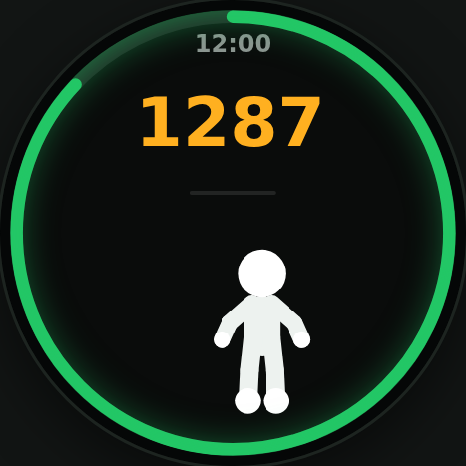
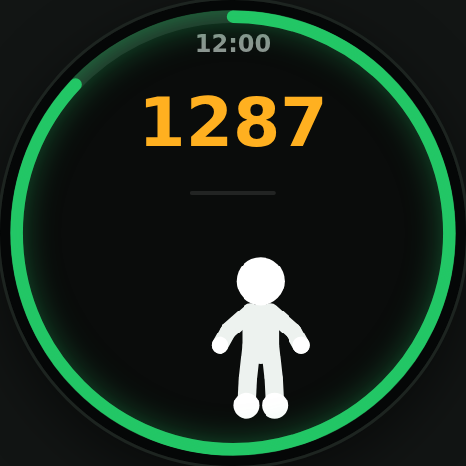
Random-stripe heat rays, star relocation, proto state browser
- Ray glow rebuilt: stripe widths (4-9deg) and gaps (8-20deg) are
  randomized once at boot and interleaved into two groups (A/B) applied
  as conic-gradient masks, giving a hand-drawn comic look instead of
  mechanical even spokes. Heat 1 does not rotate - the two groups
  alternately light up (slow ~2.4s swap, warm orange). Heat 2 swaps
  faster (~0.64s) in cream/light-gold and adds whole-wheel rotation
  (~6.5s/turn). Hard-switch alternation reads crisply at 10-15fps.
- Honor stars move out of the count row to sit right of the charge
  meter; the big count now stays fixed dead-center regardless of stars.
- Prototype control bar gains a state quick-browse section: one-tap
  jumps to home / mode select / in-session normal / heat 1 / heat 2 /
  full-meter+stars / result / congrats. In-session presets freeze the
  combo watchdog until a real jump occurs (proto-only concept).
- PRD FR-4.7/4.15 + new decision row, handbook, UI README synced;
  screenshots regenerated.

Claude-Session: https://claude.ai/code/session_01MZXpzSkZDw4hTcUnQ2UQRA

Changed region(s): [[0.4506, 0.5107, 0.691, 0.9013], [0.3004, 0.2103, 0.691, 0.3305], [0.3004, 0.3004, 0.3305, 0.3305]]

diff --git a/docs-and-demo/demo.html b/docs-and-demo/demo.html
@@ -463,8 +463,9 @@
   .a-count.pow { animation: cpow .4s linear; }
   .a-count.over { color: #FFB020; }   /* 达标后计数转暖色，与火焰呼应 */
   .a-lapstars {
-    color: #FFC24D; font-size: var(--t28); font-weight: 700;   /* 荣誉星统一金黄(会后修订) */
-    letter-spacing: .05em; margin-top: .4em;
+    position: absolute; top: 39.8%; left: calc(50% + 3.1em); z-index: 3;
+    color: #FFC24D; font-size: var(--t22); font-weight: 700;   /* 荣誉星金黄,移至蓄力槽右侧(8-26) */
+    letter-spacing: .05em; line-height: 1;
     font-variant-numeric: tabular-nums;
   }
   /* 连击标签(8-25 试验):计数下方,≥10 显示;颜色随连击档位升温,断连即隐 */
@@ -551,55 +552,29 @@
     mask: radial-gradient(circle, transparent 0 54px, rgba(0,0,0,.4) 130px, #000 218px);
   }
   .rays.on { opacity: 1; }
-  /* 5 档递进(会后修订:每档变化温和;最高两档不再加密——靠颜色与转速表达,避免太碎) */
-  .rays.f1 {   /* 档1·暖橙(满 50 点亮):15 条 · 18s */
-    background: repeating-conic-gradient(from 0deg,
-      rgba(255,166,44,.14) 0deg 8deg, transparent 8deg 24deg);
-    animation: rayspin 18s linear infinite;
-  }
-  .rays.f2 {   /* 档2·橙金(完成 1 个目标):18 条 · 14s */
-    background: repeating-conic-gradient(from 0deg,
-      rgba(255,186,50,.19) 0deg 7deg, transparent 7deg 20deg);
-    animation: rayspin 14s linear infinite;
-  }
-  .rays.f3 {   /* 档3·金(完成 2 个):20 条 · 11s */
-    background: repeating-conic-gradient(from 0deg,
-      rgba(255,204,54,.25) 0deg 6.5deg,
-      rgba(255,236,160,.10) 6.5deg 9deg,
-      transparent 9deg 18deg);
-    animation: rayspin 11s linear infinite;
-  }
-  .rays.f4 {   /* 档4·亮金(完成 3 个):24 条 · 8s */
-    background: repeating-conic-gradient(from 0deg,
-      rgba(255,220,110,.31) 0deg 6deg,
-      rgba(255,240,180,.12) 6deg 8deg,
-      transparent 8deg 15deg);
-    animation: rayspin 8s linear infinite;
-  }
-  .rays.f5 {   /* 档5·白热(完成 ≥4 个,封顶):密度同档4,只更白更快 + 脉冲 + 暖晕 */
-    background:
-      radial-gradient(circle, transparent 0 120px, rgba(255,238,200,.12) 190px, transparent 300px),
-      repeating-conic-gradient(from 0deg,
-        rgba(255,246,220,.40) 0deg 6deg,
-        rgba(255,216,100,.16) 6deg 8deg,
-        transparent 8deg 15deg);
-    animation: rayspin 5.5s linear infinite, raypulse 1.1s ease-in-out infinite;
-  }
-  @keyframes rayspin  { to { transform: rotate(360deg); } }
-  @keyframes raypulse { 50% { opacity: .65; filter: brightness(1.4); } }
+  /* 8-26 二次修订:条纹宽窄与间隔带随机性——JS 开机生成一次,交错分成 A/B 两组(mask 条纹,底色上色);
+     热血1 = 不转动,两组条纹交替点亮(轻微缓慢);热血2 = 交替更快更亮更白 + 整体转动 */
+  .rays .rlay { position: absolute; inset: 0; opacity: 0; }
+  .rays.lv1 { filter: opacity(.55); }
+  .rays.lv1 .rlay { background: #FFA62C; }
+  .rays.lv1 .rlay.ra { animation: rayswap 2.4s linear infinite; }
+  .rays.lv1 .rlay.rb { animation: rayswap 2.4s linear infinite -1.2s; }
+  .rays.lv2 { filter: opacity(.9); animation: rayspin 6.5s linear infinite; }
+  .rays.lv2 .rlay.ra { background: #FFF3D0; animation: rayswap .64s linear infinite; }
+  .rays.lv2 .rlay.rb { background: #FFD264; animation: rayswap .64s linear infinite -.32s; }
+  /* 交替点亮:半程亮/半程压暗,硬切换(10–15fps 下同样干脆) */
+  @keyframes rayswap { 0%, 49.9% { opacity: .82; } 50%, 100% { opacity: .16; } }
+  @keyframes rayspin { to { transform: rotate(360deg); } }
   @media (prefers-reduced-motion: reduce) {
-    .rays.f1, .rays.f2, .rays.f3, .rays.f4, .rays.f5 { animation: none; }
+    .rays .rlay, .rays.lv2 { animation: none; }
+    .rays .rlay { opacity: .5; }
   }
 
   /* ===== 刷新率模拟（10 / 13 / 15 fps，steps = 时长 × fps）=====
      连续动画量化为逐帧；过渡动画直切（低刷新率下 tween 无意义） */
 
   #atomRoot.fps10, #atomRoot.fps10 * { transition: none !important; }
-  #atomRoot.fps10 .rays.f1 { animation: rayspin 18s steps(180) infinite; }
-  #atomRoot.fps10 .rays.f2 { animation: rayspin 14s steps(140) infinite; }
-  #atomRoot.fps10 .rays.f3 { animation: rayspin 11s steps(110) infinite; }
-  #atomRoot.fps10 .rays.f4 { animation: rayspin 8s steps(80) infinite; }
-  #atomRoot.fps10 .rays.f5 { animation: rayspin 5.5s steps(55) infinite, raypulse 1.06s steps(11) infinite; }
+  #atomRoot.fps10 .rays.lv2 { animation: rayspin 6.5s steps(65) infinite; }
   #atomRoot.fps10 .bono.idle .body-g  { animation-timing-function: steps(26); }
   #atomRoot.fps10 .bono.hop .body-g   { animation-timing-function: steps(4); }
   #atomRoot.fps10 .bono.party .body-g { animation-timing-function: steps(8); }
@@ -612,11 +587,7 @@
   #atomRoot.fps10 .aura.on            { animation-timing-function: steps(11); }
 
   #atomRoot.fps13, #atomRoot.fps13 * { transition: none !important; }
-  #atomRoot.fps13 .rays.f1 { animation: rayspin 18s steps(234) infinite; }
-  #atomRoot.fps13 .rays.f2 { animation: rayspin 14s steps(182) infinite; }
-  #atomRoot.fps13 .rays.f3 { animation: rayspin 11s steps(143) infinite; }
-  #atomRoot.fps13 .rays.f4 { animation: rayspin 8s steps(104) infinite; }
-  #atomRoot.fps13 .rays.f5 { animation: rayspin 5.5s steps(72) infinite, raypulse 1.06s steps(14) infinite; }
+  #atomRoot.fps13 .rays.lv2 { animation: rayspin 6.5s steps(85) infinite; }
   #atomRoot.fps13 .bono.idle .body-g  { animation-timing-function: steps(34); }
   #atomRoot.fps13 .bono.hop .body-g   { animation-timing-function: steps(5); }
   #atomRoot.fps13 .bono.party .body-g { animation-timing-function: steps(10); }
@@ -629,11 +600,7 @@
   #atomRoot.fps13 .aura.on            { animation-timing-function: steps(14); }
 
   #atomRoot.fps15, #atomRoot.fps15 * { transition: none !important; }
-  #atomRoot.fps15 .rays.f1 { animation: rayspin 18s steps(270) infinite; }
-  #atomRoot.fps15 .rays.f2 { animation: rayspin 14s steps(210) infinite; }
-  #atomRoot.fps15 .rays.f3 { animation: rayspin 11s steps(165) infinite; }
-  #atomRoot.fps15 .rays.f4 { animation: rayspin 8s steps(120) infinite; }
-  #atomRoot.fps15 .rays.f5 { animation: rayspin 5.5s steps(83) infinite, raypulse 1.06s steps(16) infinite; }
+  #atomRoot.fps15 .rays.lv2 { animation: rayspin 6.5s steps(98) infinite; }
   #atomRoot.fps15 .bono.idle .body-g  { animation-timing-function: steps(39); }
   #atomRoot.fps15 .bono.hop .body-g   { animation-timing-function: steps(6); }
   #atomRoot.fps15 .bono.party .body-g { animation-timing-function: steps(12); }
@@ -758,7 +725,7 @@
   <div id="atomWrap">
     <div id="atomRoot">
       <div class="atom-bg" id="atomBg"></div>
-      <div class="rays" id="a-rays"></div>
+      <div class="rays" id="a-rays"><i class="rlay ra" id="a-ray-a"></i><i class="rlay rb" id="a-ray-b"></i></div>
       <div class="aura" id="a-aura"></div>
       <div class="edge"></div>
 
@@ -909,11 +876,12 @@
         <div class="a-top">
           <div class="a-count-row">
             <div class="a-count" id="a-count">0</div>
-            <div class="a-lapstars" id="a-lapstars"></div>
           </div>
         </div>
         <div class="a-combo" id="a-combo-lab"></div>
         <div class="a-meter" id="a-meter"><i id="a-meter-fill"></i></div>
+        <!-- 荣誉星(8-26 移位):挂在蓄力槽右侧——计数固定居中,不随星数左右偏移 -->
+        <div class="a-lapstars" id="a-lapstars"></div>
         <div class="a-bono-slot"><div id="a-bono-jump"></div></div>
         <!-- 暂停控制面板:出框自动 / 单击屏幕手动 两个入口共用;空白处点按=继续 -->
         <div class="pauseveil" id="a-pause">
@@ -1085,7 +1053,7 @@
         <tr><td><b>每一跳</b></td><td>五声音阶"叮" + 数字砸入回弹 + 脚下金色透视涟漪(同帧,延迟 <100ms)</td></tr>
         <tr><td><b>每 10 下</b></td><td>数字重击(1.9×+震屏)+ 火柴人全身金光 0.5s + 语音报数 + 50% 概率小彩带</td></tr>
         <tr><td><b>每 20 下</b></td><td>+2★ 飞星;15% 概率彩蛋双倍 +4★ + 彩带雨 + 专属播报</td></tr>
-        <tr><td><b>连击 Combo</b></td><td>(8-26 定稿)两跳间隔 <b>≤0.7s</b> 连击 +1,断连归零;连击 10 → <b>热血1</b>(轻微缓慢光芒),连击 30 → <b>热血2</b>(热烈光芒交替+强气场);<b>热血2 内每保持 20 下 = 1★</b>(连击 50/70/90…)+语音庆祝;计数下方 COMBO 标签(第 5 次起)+ 三段热血蓄力槽(热血2 槽蓄满后常满保持,断连才清空)</td></tr>
+        <tr><td><b>连击 Combo</b></td><td>(8-26 定稿)两跳间隔 <b>≤0.7s</b> 连击 +1,断连归零;连击 10 → <b>热血1</b>(随机宽窄条纹,不转动·两组交替点亮),连击 30 → <b>热血2</b>(交替更快更白 + 整体转动 + 强气场);<b>热血2 内每保持 20 下 = 1★</b>(连击 50/70/90…,★ 显示在蓄力槽右侧,计数固定居中)+语音庆祝;计数下方 COMBO 标签(第 5 次起)+ 三段热血蓄力槽(热血2 槽蓄满后常满保持,断连才清空)</td></tr>
         <tr><td><b>每 50 下</b></td><td>换绳色(星星已改由连击奖励)</td></tr>
         <tr><td><b>隐藏数字</b></td><td>每天 55–99 换一个,踩中 +5★ + 彩带 + 专属播报</td></tr>
         <tr><td><b>达标</b></td><td>彩带 + 数字转暖 + "继续冲!"——绝不打断,51、52 继续数</td></tr>
@@ -1249,6 +1217,16 @@
   <button id="pb-s1" class="on">1×</button>
   <button id="pb-s2">2×</button>
   <button id="pb-s3">3×</button>
+  <span class="sep"></span>
+  <span class="tag">状态速览</span>
+  <button id="pb-st-idle">首页</button>
+  <button id="pb-st-mode">模式选择</button>
+  <button id="pb-st-jump">课中·普通</button>
+  <button id="pb-st-hot1">热血1</button>
+  <button id="pb-st-hot2">热血2</button>
+  <button id="pb-st-full">满槽·★2</button>
+  <button id="pb-st-result">结果页</button>
+  <button id="pb-st-cele">恭喜页</button>
 </div>
 
 <script>
@@ -1926,7 +1904,7 @@ function render() {
      普通=无光;热血1(连击≥10)=轻微缓慢光芒+微气场;热血2(连击≥30)=热烈光芒交替+强气场;
      断连(>0.7s 无跳)即全部熄灭回普通 */
   const lv = inJump ? bloodLv() : 0;
-  $('a-rays').className = 'rays' + (lv === 1 ? ' on f1' : lv === 2 ? ' on f5' : '');
+  $('a-rays').className = 'rays' + (lv > 0 ? ' on lv' + lv : '');
   $('a-aura').className = 'aura' + (lv === 1 ? ' on u1' : lv === 2 ? ' on u5' : '');
   /* 连击标签:第 5 次起显示 COMBO[n];颜色随热血等级升温;断连即隐 */
   const comboOn = inJump && S.combo >= 5;
@@ -2102,13 +2080,35 @@ const sessionElapsed = () => S.elapsedMs + (S.runSince ? Date.now() - S.runSince
 const testMs = () => (S.testMin || 1) * 60000;
 const FREE_CAP_MS = 30 * 60000;   /* 自由跳单轮上限（8-18 定稿:30 分钟强制终止,用户不可改;参数服务端可配） */
 const COMBO_GAP = 700;   /* 连击窗口:两跳间隔 ≤0.7s 才算连击(8-26 定稿,参数可调——节奏/耐力约束) */
-/* 热血等级:普通 0(连击<10)/ 热血1(连击≥10,轻微缓慢光芒)/ 热血2(连击≥30,热烈光芒交替) */
+let comboHold = false;   /* 原型「状态速览」冻结连击用(真实跳跃即解除),真机无此概念 */
+/* 热血等级:普通 0(连击<10)/ 热血1(连击≥10,静止交替点亮)/ 热血2(连击≥30,交替+转动) */
 const bloodLv = () => S.combo >= 30 ? 2 : S.combo >= 10 ? 1 : 0;
+
+/* 光芒条纹(8-26 二次修订):开机随机生成一次——条纹宽 4–9°、间隔 8–20°,
+   交错分成 A/B 两组作 mask(颜色由 CSS 底色给),热血1 两组交替点亮、热血2 加整体转动 */
+(function buildRayMasks() {
+  const A = ['#0000 0deg'], B = ['#0000 0deg'];
+  let ang = Math.random() * 8, k = 0;
+  while (ang < 356) {
+    const w = 4 + Math.random() * 5;
+    const gap = 8 + Math.random() * 12;
+    const e = Math.min(359.5, ang + w);
+    (k % 2 ? B : A).push(`#0000 ${ang.toFixed(1)}deg, #fff ${ang.toFixed(1)}deg ${e.toFixed(1)}deg, #0000 ${e.toFixed(1)}deg`);
+    ang += w + gap; k++;
+  }
+  A.push('#0000 360deg'); B.push('#0000 360deg');
+  [['a-ray-a', A], ['a-ray-b', B]].forEach(([id, st]) => {
+    const el = $(id);
+    if (!el) return;
+    const m = `conic-gradient(from 0deg, ${st.join(', ')})`;
+    el.style.webkitMaskImage = m; el.style.maskImage = m;
+  });
+})();
 let testMark30 = false, testMark10 = false, capMark1 = false;
 setInterval(() => {
   if (S.screen !== 'jump' || S.paused || !S.runSince) return;
   /* 断连监测:超 0.7s 未跳 → 连击归零,热血状态(光芒/气场/标签/蓄力槽)即时熄灭 */
-  if (S.combo > 0 && performance.now() - S.lastJumpT > COMBO_GAP) {
+  if (!comboHold && S.combo > 0 && performance.now() - S.lastJumpT > COMBO_GAP) {
     S.combo = 0; bump();
   }
   if (S.goal === TEST) {
@@ -2188,6 +2188,7 @@ function registerJump() {
   /* 连击(8-26 定稿):两跳间隔 ≤0.7s 连击 +1,超窗归 1(耐力/节奏约束);
      热血状态:连击 10 → 热血1(轻微缓慢光芒),连击 30(热血1 内再 20)→ 热血2(热烈光芒交替);
      热血2 内每保持 20 下(连击 50/70/90…)= +1★ + 语音庆祝;断连归零回普通 */
+  comboHold = false;   /* 真实跳跃解除「状态速览」冻结 */
   const nowT = performance.now();
   const prevLv = bloodLv();
   S.combo = (nowT - S.lastJumpT <= COMBO_GAP) ? S.combo + 1 : 1;
@@ -3296,6 +3297,44 @@ document.querySelectorAll('[data-act="resume"]').forEach(b => b.addEventListener
 document.querySelectorAll('[data-act="discard"]').forEach(b => b.addEventListener('click', () => discardSession()));
 
 $('pb-auto').addEventListener('click', () => { audio(); setAuto(!autoTimer); });
+/* 状态速览(仅原型控制条):一键跳到关键画面,快速浏览 Demo;
+   课中态用 comboHold 冻结连击(否则 0.7s 断连监测会立刻清零),真实跳跃(空格/点击)即解除 */
+function pbGoto(k) {
+  audio();
+  if (autoTimer) setAuto(false);
+  comboHold = false;
+  clearInterval(cdTimer); clearTimeout(resultTimer);
+  cancelAnimationFrame(celeRaf);
+  $('a-celebrate').classList.remove('show', 'charge', 'burst');
+  S.countdown = 0; S.brandFlash = false; S.celebPending = false; S.paused = false;
+  bgmStop();
+  const jumpSt = (combo, count, stars) => {
+    S.screen = 'jump'; S.goal = profile.goal || 200;
+    S.count = count; S.combo = combo;
+    S.comboMax = Math.max(S.comboMax || 0, combo); S.comboStars = stars;
+    S.goalHit = S.goal > 0 && count >= S.goal;
+    S.elapsedMs = 45000; S.runSince = Date.now();
+    S.lastJumpT = performance.now(); comboHold = true;
+    if (bgmOn) bgmStart();
+  };
+  if (k === 'idle') S.screen = 'idle';
+  else if (k === 'mode') { S.screen = 'idle'; openMode(); return; }
+  else if (k === 'jump') jumpSt(0, 12, 0);
+  else if (k === 'hot1') jumpSt(16, 16, 0);
+  else if (k === 'hot2') jumpSt(38, 38, 0);
+  else if (k === 'full') jumpSt(76, 76, 2);
+  else if (k === 'result') { S.screen = 'result'; S.goal = profile.goal || 200; S.count = 132; S.elapsedMs = 180000; S.earned = 14; S.newBest = false; }
+  else if (k === 'cele') {
+    S.screen = 'result';
+    bump();
+    celebrationShow({ scope: 'round', state: 'done', perf: 'pb', onDone: () => { S.screen = 'idle'; bump(); } });
+    return;
+  }
+  bump();
+}
+[['pb-st-idle', 'idle'], ['pb-st-mode', 'mode'], ['pb-st-jump', 'jump'], ['pb-st-hot1', 'hot1'],
+ ['pb-st-hot2', 'hot2'], ['pb-st-full', 'full'], ['pb-st-result', 'result'], ['pb-st-cele', 'cele']
+].forEach(([id, k]) => $(id).addEventListener('click', () => pbGoto(k)));
 /* 「初始状态」开关:ON = 快照当前档案 → 切换为全新空账号(演示空状态/新手开场白);OFF = 恢复快照 */
 let freshBak = null;
 $('pb-fresh').addEventListener('click', () => {

diff --git a/docs-and-demo/jump-rope-mini-prd.md b/docs-and-demo/jump-rope-mini-prd.md
@@ -102,14 +102,14 @@ Atom OS 系统入口卡（吉祥物 ATOM + 连续 N 天）
 | FR-4.4 | **虚拟绳**：**绳色随机**——8 色池（默认翠绿），开轮随机抽色、**每满一圈换新色**（与燃起来升级同拍，构成课中小惊喜）；相位振荡器驱动，转速=实测跳频 EMA；每次计数把相位向"绳过脚下"软校正 40%；绳过下半周画在人前/上半周在人后；3 条残影弧抗低帧率频闪；不跳时淡出（1.2s 全显 + 0.7s 淡出） | 绳与跳跃节拍视觉同步 |
 | FR-4.5 | **触地涟漪**：仅在"判定计数落地"触发；单个透视椭圆环；0 帧最强（金色闪光 + 最粗线宽），0.7s 内爆发扩张-压缩-回弹-消失，与计数动画同一套"打击语法" | 无计数不出现 |
 | FR-4.6 | **进度环与星**：环一圈 = **freestyle goal 目标环**（50/100/200，默认 200——8-18 定稿，原 daily goal 更名），跳满自动重置再来一圈、**再次满环背景升温一档**（更热烈）；★ 改由**连击/热血奖励**（**8-26 定稿**：热血2 内每保持 20 下一颗，见 FR-4.15；原"固定每 50 一颗"废止，每 50 保留换绳色），>4 颗收敛为 ★×N | 限时模式下同一条进度弧改为正计时填满（见 FR-4.9） |
-| FR-4.7 | **燃起来·热血光芒**（**8-26 定稿：与热血状态挂钩**，全模式统一）：**热血1**（连击 ≥10）= **轻微缓慢光芒**（档1 暖橙样式：15 条·18s·低透明度）；**热血2**（连击 ≥30）= **热烈光芒交替**（档5 白热样式：5.5s 快转 + 亮度脉冲交替 + 暖晕）；**断连（>0.7s 无跳）即全部熄灭回普通**；中间档 2–4 的条纹参数保留为视觉资产（后续可用于热血2 内随星数渐进）；**放射中心 = 火柴人渲染中心**（50%, 62%，屏幕偏下）；**中心近黑、越到边缘越清楚**（径向遮罩淡出——计数数字与火柴人永不被光芒糊住） | 15fps 下用 steps() 量化旋转；五档转速 18/14/11/8/5.5s |
+| FR-4.7 | **燃起来·热血光芒**（**8-26 二次修订：随机条纹 + 分级动效**，全模式统一）：条纹**宽窄（4–9°）与间隔（8–20°）带随机性**（开机生成一次，交错分成 A/B 两组——手绘漫画感，避免机械均分）；**热血1**（连击 ≥10）= **不转动**，暖橙两组条纹**交替点亮**（~2.4s 一轮，轻微缓慢）；**热血2**（连击 ≥30）= 交替更快（~0.64s）更亮更白（米白/浅金双色）+ **整体转动**（~6.5s/圈）；**断连（>0.7s 无跳）即全部熄灭回普通**；**放射中心 = 火柴人渲染中心**（50%, 62%，屏幕偏下）；**中心近黑、越到边缘越清楚**（径向遮罩淡出——计数数字与火柴人永不被光芒糊住） | 交替=硬切换，10–15fps 下同样干脆；转动 steps() 量化 |
 | FR-4.8 | **达标不打断**：达到目标时彩带 + 语音 + 数字转暖色，继续 51、52… 往上数 | 绝不弹结算；无浮层弹窗 |
 | FR-4.9 | **限时测试（1'/2'，默认 1' 主推——会后修订:恢复 2' 档；1'=中考口径拼爆发、2'=耐力+爆发）**：外圈与自由模式**共用同一条进度弧**（8-26 修订，替代 60 格刻度环）：按设定时长**正计时顺时针逐渐填满**（满 = 时间到），最后 10s 弧转暖橙；顶部倒计时读秒（最后 10s 转暖橙）；剩 30s/10s 语音节点；时间到自动结算并记历史最佳；**倒计时读秒复用现有保持类控件（8-18）** | 1'/2' 分别记最佳；1' 月榜上屏主推，2' 月榜后端就绪（入口 P1） |
 | FR-4.10 | **暂停（双入口）**：① 出框/切后台（AI `setPresence(false)`）自动暂停；② **训练中单击屏幕手动暂停**——弹出控制面板 `[继续] [立即结算] [放弃本轮]`，遮罩空白处点按=继续；**放弃本轮 = 计数/时长全部作废、不落档不进结算**（已结算的历史数据不可删）；暂停超 3 分钟自动结算保存（可配 3–5min） | 停表；暂停时长不计入用时与卡路里；出框副文案"回到画面继续"、手动副文案"休息一下" |
 | FR-4.11 | **激励事件**：整 10 报数 + 数字重击闪 + **火柴人全身金光闪烁 0.5s** + 50% 概率飘少量庆祝彩带、整 20 星星+2（15% 概率彩蛋双倍）、每日隐藏数字（55–99）踩中 +5★、实时超越播报、节奏变慢轻推（每轮最多一次） | **课中零浮层弹窗（会后定稿：杜绝一切半透明 toast）**——所有事件反馈 = 语音 + 既有画面元素（数字重击/变色 · 金光 · 彩带 · 环重置）；确需页面级告知时用整屏遮盖式模块（如恭喜页），不用浮层；语音分层：整十报数、整三十鼓励与纠错指导五五开、满圈报星 |
 | FR-4.12 | **计数与纠错**（8-18 修订）：基础计数规则 = **脚踝离地判定**——开合跳等双脚离地动作一并纳入计数，**脚不离地（作弊）不计数**；**V1 暂不做常规纠错，交替跳识别列为后续项**（可通过左右脚踝水平夹角判断动作类型后再提示），接口 `formHint(alternating / single_foot / low_jump / low_light)` 保留；识别能力 ≤3 跳/秒；正对/侧对均支持、引导正对 | 纠错启用后同类提醒 ≥20s 间隔 |
 | FR-4.13 | **自由跳时长上限**（8-18 定稿）：单轮上限 **30 分钟**——强制终止，**用户不可修改**，参数服务端可配（后续按业务调整）；覆盖普通用户减脂（20–30min）与冲榜用户（8–15min）两类场景（"马拉松式跳绳是另一个产品"）；最后 1 分钟语音预告，届满自动结算 | 成绩照常落档 |
-| FR-4.15 | **连击与热血系统**（**8-26 定稿**）：两跳间隔 **≤0.7s** 连击 +1，超窗归 1（暂停/停顿即断连——节奏/耐力约束，防"跳跳停停"）；**热血状态机**：普通（连击 <10，无光）→ **热血1**（连击 ≥10：轻微缓慢光芒 + 微气场，入级仅音效）→ **热血2**（连击 ≥30：热烈光芒交替 + 强气场 + 火柴人金色爆气，入级号角 + 播报"热血全开"一次）；**热血2 内每保持 20 下 = 1★**（连击 50/70/90…：星星飞入 + 语音庆祝，取代原"每 50 下一星"）；**热血蓄力槽**（连击标签下方三段进度条）：普通=蓄向热血1（0→10，绿）/ 热血1=蓄向热血2（10→30，橙）/ 热血2=蓄向首星（30→50，金），**蓄满后常满保持**（8-26 修订：不按星循环清空，断连才清空；星星仍每保持 20 下一颗）；**连击标签**：第 5 次起显示 `COMBO n`（颜色随热血等级 灰→橙→白热金）；断连全部归零回普通；结算落 `comboMax`；窗口 0.7s、热血阈值 10/30、奖励步长 20 为服务端可配参数 | 语音优先级：连击星/热血2 入级播报压过整十报数；C/后端参考待试验确认后同步 |
+| FR-4.15 | **连击与热血系统**（**8-26 定稿**）：两跳间隔 **≤0.7s** 连击 +1，超窗归 1（暂停/停顿即断连——节奏/耐力约束，防"跳跳停停"）；**热血状态机**：普通（连击 <10，无光）→ **热血1**（连击 ≥10：轻微缓慢光芒 + 微气场，入级仅音效）→ **热血2**（连击 ≥30：热烈光芒交替 + 强气场 + 火柴人金色爆气，入级号角 + 播报"热血全开"一次）；**热血2 内每保持 20 下 = 1★**（连击 50/70/90…：星星飞入 + 语音庆祝，取代原"每 50 下一星"）；**热血蓄力槽**（连击标签下方三段进度条）：普通=蓄向热血1（0→10，绿）/ 热血1=蓄向热血2（10→30，橙）/ 热血2=蓄向首星（30→50，金），**蓄满后常满保持**（8-26 修订：不按星循环清空，断连才清空；星星仍每保持 20 下一颗）；**连击标签**：第 5 次起显示 `COMBO n`（颜色随热血等级 灰→橙→白热金）；**荣誉星 ★ 显示在蓄力槽右侧**（8-26 移位：计数固定居中，不随星数左右偏移）；断连全部归零回普通；结算落 `comboMax`；窗口 0.7s、热血阈值 10/30、奖励步长 20 为服务端可配参数 | 语音优先级：连击星/热血2 入级播报压过整十报数；C/后端参考待试验确认后同步 |
 | FR-4.14 | **训练 BGM**：轻量节奏型循环（五声音阶低音与计数叮声同调式，极低音量垫底）；**跳频自适应变速**（96–128BPM 跟随实测跳频，量化防抖、变速不变调——[音频策略 §3](audio-voice-strategy.md)；核心跑通期以固定 110BPM 占位）+ 燃起来强度分层；仅训练中播放，暂停静音、结算即停；设置可关；正式音源与音效包一起新制（不复用课程音效） | 不盖过语音与计数音效 |
 
 ### 5.5 结算与分享
@@ -288,6 +288,7 @@ Atom OS 系统入口卡（吉祥物 ATOM + 连续 N 天）
 | 一级导航修订（8-19） | 第四卡**恢复最佳战绩速览**；追加记录不占一级卡位，改为打卡记录页右下「补记」入口的独立二级页；排行榜三榜从顶部小 Tab 改为**横滑 Page View**（小屏免点按，圆点指示，第一榜再右滑=返回） | §4 · FR-6.2/6.3/6.7/6.8 |
 | 连击系统（8-25 试验） | 课中新增**连击 Combo**：两跳 ≤2s 连击累积、断连归零；**每 20 连击 = 1★**（取代每 50 下一星）；风火轮 5 档改绑连击（爆气状态）+ 火柴人金色气场 + 连击标签；试验确认后同步 C/后端参考 | FR-4.6/4.7/4.15 |
 | 连击热血定稿（8-26） | 连击窗口收紧为 **0.7s**；**热血两级**：连击 10 → 热血1（轻微缓慢光芒）、连击 30 → 热血2（热烈光芒交替）；**热血2 内每保持 20 下 = 1★**；新增**三段热血蓄力槽**（热血2 槽蓄满后**常满保持**、断连才清空）；COMBO 标签第 5 次起显示；限时外圈改**正计时填满进度弧**（替代 60 格刻度环） | FR-4.6/4.7/4.9/4.15 |
+| 课中视觉细化（8-26） | 光芒条纹**随机宽窄/间隔**（交错两组）：热血1 **不转动、交替点亮**，热血2 交替加快 + **整体转动**；**荣誉星 ★ 移到蓄力槽右侧**，计数固定居中不再左右偏移；Demo 控制条新增**状态速览**（一键跳 首页/模式/课中/热血1/热血2/满槽/结果/恭喜） | FR-4.7/4.15 |
 
 ---
 

diff --git a/docs-and-demo/ui/README.md b/docs-and-demo/ui/README.md
@@ -13,9 +13,9 @@
 | 06-mode-select | 模式选择 | 不限时(freestyle goal 200)/ 限时 1'/2' 默认 1';「仅识别并脚跳」提示(8-18);角按钮[‹][Tips] |
 | 07-countdown | 倒计时 | 3·2·1(136px) |
 | 08-go-bodypark | 发令帧 | 品牌口号 BodyPark(0.75s) |
-| 09-jumping | 训练屏 | 打击计数 + 骨骼火柴人 + 随机彩绳 |
+| 09-jumping | 训练屏(热血1) | 打击计数(固定居中)+ 骨骼火柴人 + 随机彩绳;热血1=随机宽窄条纹不转动、两组交替点亮 |
 | 10-jumping-ripple | 训练屏·涟漪 | 计数落地金色冲击涟漪(0 帧最强) |
-| 11-jumping-fire | 训练屏·热血状态 | 热血两级(8-26 定稿:连击 10→热血1 轻微缓慢光芒/连击 30→热血2 热烈光芒交替+金色气场;热血2 内每 20 下+1★;断连即熄)+ COMBO 标签 + 三段蓄力槽;中心淡出,圆心=火柴人中心(图为热血2) |
+| 11-jumping-fire | 训练屏·热血状态 | 热血两级(8-26:连击 10→热血1 随机条纹交替点亮不转动/连击 30→热血2 交替加快+整体转动+金色气场;热血2 内每 20 下+1★,★ 在蓄力槽右侧;断连即熄)+ COMBO 标签 + 三段蓄力槽;中心淡出,圆心=火柴人中心(图为热血2) |
 | 12-paused | 暂停遮罩 | 出框/切后台立即暂停,超 3 分钟自动结算 |
 | 13-celebrate | 新纪录恭喜页 | 结果页点「完成」后弹出的自包含庆祝模块(吸纳 set-celebration):三行堆叠+蓄力爆发+金彩纸炮+圆边金光环,可点按跳过 → onDone 回首页 |
 | 14-result | 结果页 | 8-18:训练完成默认直达;大数字 + 状态行 + ★星星·自我对比行 + 今日累计;同时自动生成 466×466 结果分享卡 |
